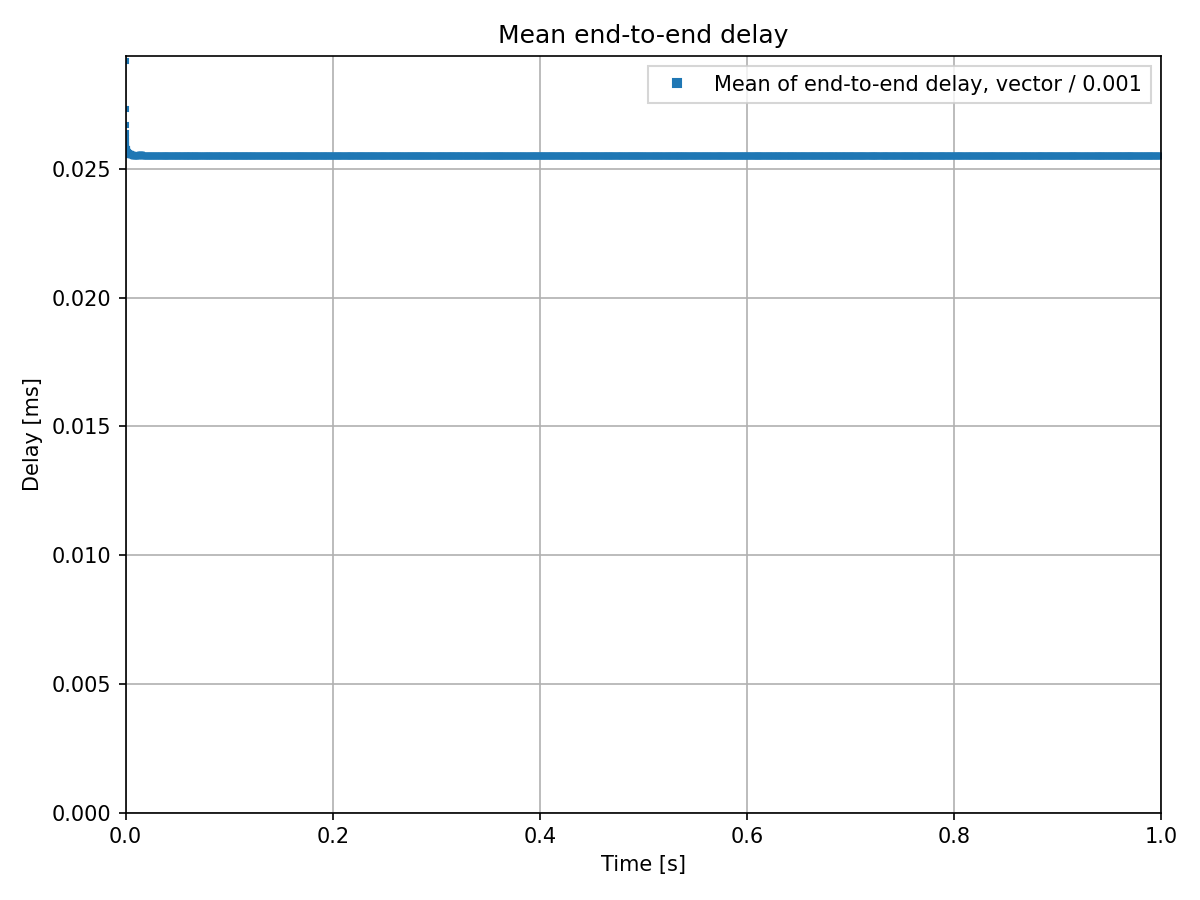
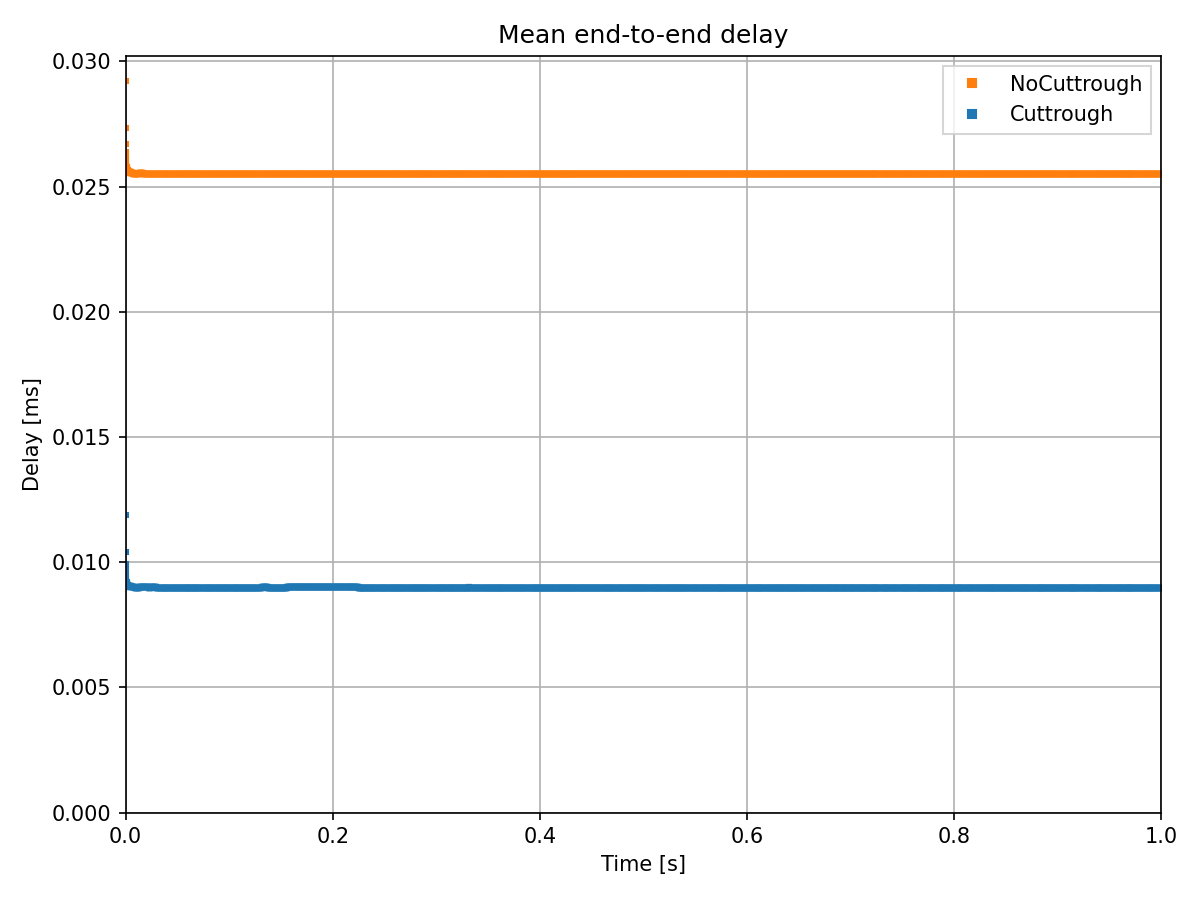
cuttrough

diff --git a/showcases/ethernet/cutthrough/doc/index.rst b/showcases/ethernet/cutthrough/doc/index.rst
@@ -13,35 +13,36 @@ so
 
 Cut-through switching can reduce switching delay of ethernet frames by immediatelly forwarding an ethernet frame after the header is received and the next-hop address is available (as opposed to store-and-forward switching, in which the whole frame is received and then forwarded).
 
-The new composable/layered Ethernet model supports cut-through switching. This showcase demonstrates cut-through switching, and compares its delay with store-and-forward switching.
+This showcase demonstrates cut-through switching, and compares its delay with store-and-forward switching.
+
+.. The new composable/layered Ethernet model supports cut-through switching.
 
 The Model
 ---------
 
-- cut through switching reduces delay
-- it skips the FCS check (its handles in the endpoints)
-- it requires packet streams (also enables preemption)
-- need LayeredEthernetInterface, and CuttroughEthernetInterface in switches
+.. - cut through switching reduces delay
+   - it skips the FCS check (its handles in the endpoints)
+   - it requires packet streams (also enables preemption)
+   - need LayeredEthernetInterface, and CuttroughEthernetInterface in switches
 
 Cut-through switching reduces switching delay, but skips the FCS check, as the FCS is at the end of the Ethernet frame, the FCS check is performed in at destination host.
 
 Cut-through switching makes use of packet streams in INET's Ethernet model.
-
 Packet streaming is required for cut-through switching, because the frame needs to be represented as a stream (as opposed to as a packet) in order for the switch to be able to start forwarding it before the whole packet is received.
 
-The example simulation contains two :ned:`StandardHost`'s connected by two :ned:`EthernetSwitch`'es:
+The example simulation contains two :ned:`StandardHost`'s connected by two :ned:`EthernetSwitch`'es (all connections are 1 Gbps):
 
 .. figure:: media/Network.png
    :align: center
    :width: 100%
 
-**TODO** 1Gbps connection
+.. **TODO** 1Gbps connection
 
 There are two configurations in omnetpp.ini. In both of them, host1 sends UDP packets to host2.
 
 In the simulation, host1 sends 1000-Byte UDP packets to host2, around every 100ms. There are two configurations in omnetpp.ini, ``NoCuttrough`` and ``Cuttrough`` (only differring in the use of cuttrough switching).
 
-In the ``General`` configuration,
+.. In the ``General`` configuration,
 
 .. Here is the part from the ``General`` configuration concerning Ethernet:
 
@@ -63,9 +64,32 @@ Also, the link speed is specified:
    :end-at: bitrate
    :language: ini
 
+To prevent packets from accumulating in the queue of the sender host (and thus increasing end-to-end delay), the queue is limited to one packet, and configured to drop packets from the end of the queue:
+
+.. literalinclude:: ../omnetpp.ini
+   :start-at: packetCapacity
+   :end-at: dropperClass
+   :language: ini
+
 Here are the two configurations:
 
 .. literalinclude:: ../omnetpp.ini
    :start-at: NoCuttrough
    :end-at: phyLayer
    :language: ini
+
+.. - the cuttroughinterface is needed for the cuttrough
+   - the streamingphylayer is needed also for that cuttrough (it needs to support packet streaming)(the cuttroughinterface does that by default)
+
+The cuttrough interface in the switches support packet streaming by default; the :ned:`EthernetStreamingPhyLayer` in the hosts support packet streaming as well.
+
+Results
+-------
+
+- qtenv
+- seqchart
+- chart
+
+.. video:: media/cuttrough.mp4
+   :width: 100%
+   :align: center
